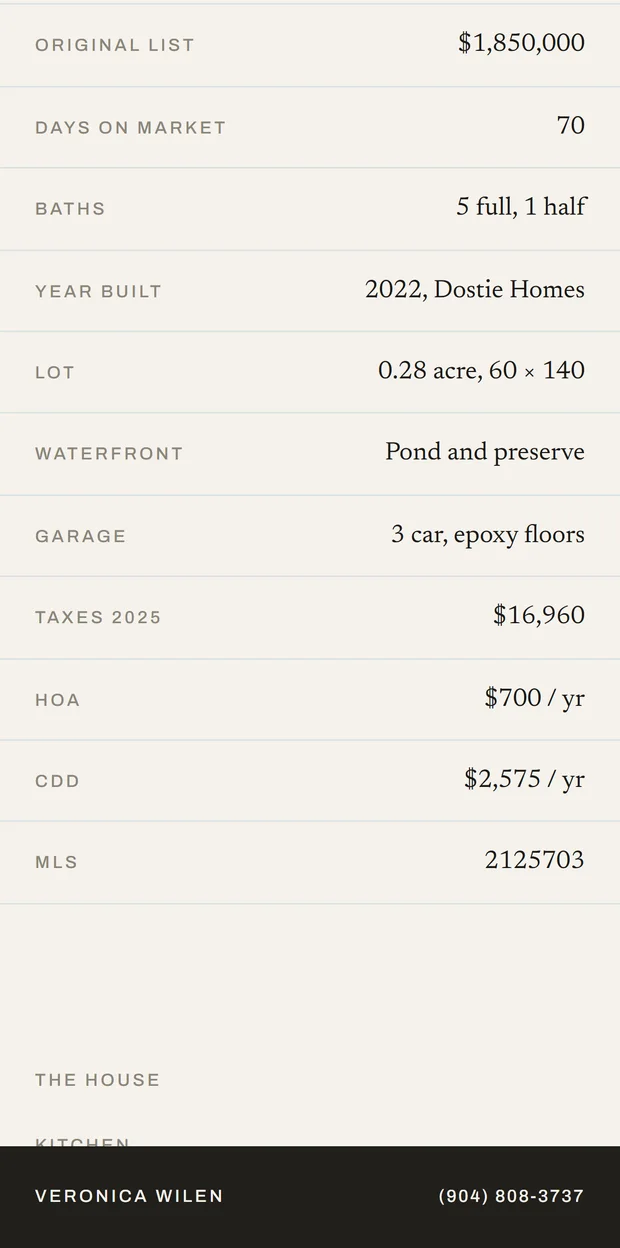
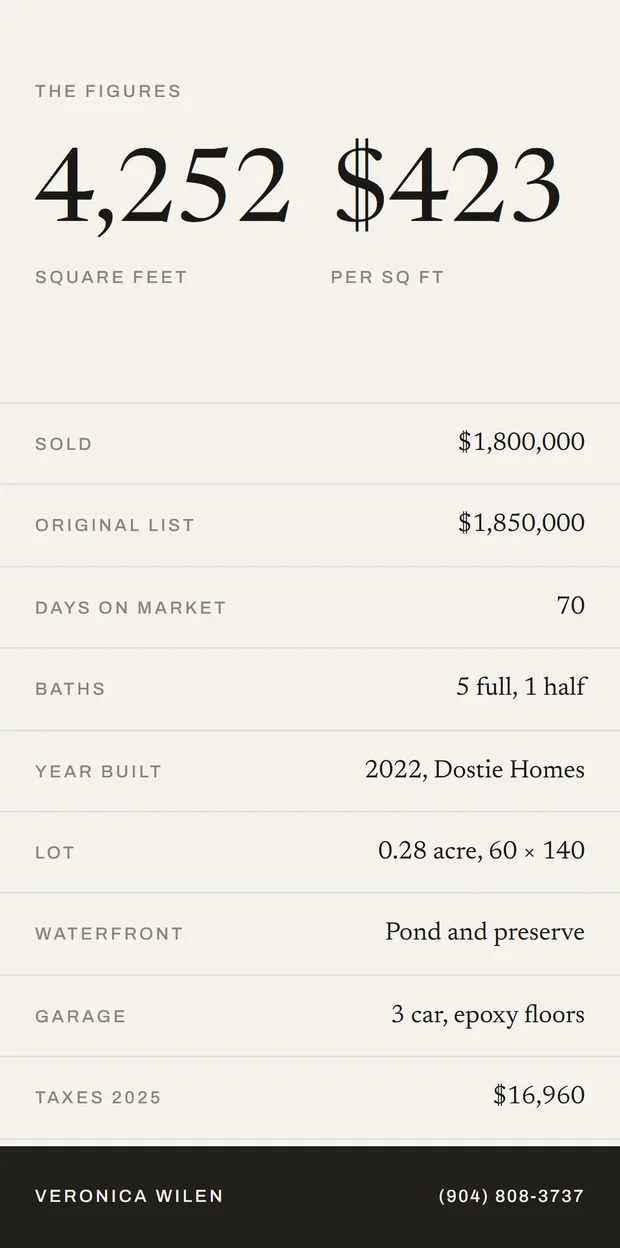
Speed the hero fade up, reframe the figures screen, tighten the hero top
Three adjustments.

The fade cycle drops from 24s to 16s, so each screen holds for 4s instead of 6.
The overlap proportions are unchanged, so combined opacity still measures a flat
1.00 across the cycle and the screen never dips toward the background.

The figures screen was mostly whitespace because its capture offset had drifted.
The live page settles to 10,036px once every lazy image has decoded, not the
10,428px it reports mid-load, so the old offsets landed low: that frame started
at ORIGINAL LIST, cut off the 4,252 and $423 headline figures above it, and ran
past the section into the top of THE HOUSE. All four offsets were re-measured
after a full scroll pass at the real capture viewport. The figures frame now
starts at 6000 rather than 6302, which skips 53px of section padding and leads
with the two big numbers, ending cleanly at Taxes.

The hero's top padding goes from 64px to 36px on desktop and 28px to 18px on
phones. The gap between the header and the headline closes from 87px to 59px,
which lifts the whole column and roughly doubles the CTA's clearance above the
fold on a 720px-tall window, from 36px to 64px.

diff --git a/styles.css b/styles.css
@@ -44,7 +44,7 @@ img{max-width:100%;display:block}
 .site-nav a.strong{color:var(--text-strong)}
 
 /* hero */
-.hero{padding:clamp(28px,6vw,64px) var(--pad-x) clamp(32px,3.4vw,46px)}
+.hero{padding:clamp(18px,2.6vw,36px) var(--pad-x) clamp(32px,3.4vw,46px)}
 .hero-grid{display:grid;grid-template-columns:minmax(0,1.15fr) minmax(0,.85fr);gap:clamp(28px,5vw,72px);align-items:center}
 .hero h1{font-size:clamp(38px,6vw,74px);line-height:1.06;margin-bottom:var(--sp-5)}
 .hero h1 .line{display:block;overflow:hidden;padding-bottom:.14em;margin-bottom:-.14em}
@@ -75,19 +75,19 @@ img{max-width:100%;display:block}
 @keyframes floatY{0%,100%{transform:translateY(0)}50%{transform:translateY(-8px)}}
 .phone-screen{position:relative;border-radius:24px;overflow:hidden;background:var(--paper-100);aspect-ratio:620/1248}
 /* Four real screenfuls of the guide, cross-faded. Each frame runs the same
-   24s keyframe offset by 6s, and its visible window (0 to 29%) is slightly
+   16s keyframe offset by 4s, and its visible window (0 to 29%) is slightly
    longer than its slot, so the outgoing and incoming frames overlap instead of
    dipping through the background. The first frame carries a static opacity:1 so
    that under prefers-reduced-motion, where animations are switched off further
    down this sheet, the screen still shows the guide rather than going blank.
    The phone's floatY is untouched: it sits on .phone, this sits on the frames. */
-.phone-screen .frame{position:absolute;inset:0;opacity:0;border-radius:24px;overflow:hidden;animation:frameFade 24s linear infinite}
+.phone-screen .frame{position:absolute;inset:0;opacity:0;border-radius:24px;overflow:hidden;animation:frameFade 16s linear infinite}
 .phone-screen .frame:first-child{opacity:1}
 .phone-screen .frame img{width:100%;height:100%;object-fit:cover;display:block}
 .phone-screen .frame:nth-child(1){animation-delay:0s}
-.phone-screen .frame:nth-child(2){animation-delay:6s}
-.phone-screen .frame:nth-child(3){animation-delay:12s}
-.phone-screen .frame:nth-child(4){animation-delay:18s}
+.phone-screen .frame:nth-child(2){animation-delay:4s}
+.phone-screen .frame:nth-child(3){animation-delay:8s}
+.phone-screen .frame:nth-child(4){animation-delay:12s}
 @keyframes frameFade{0%{opacity:0}4%{opacity:1}25%{opacity:1}29%{opacity:0}100%{opacity:0}}
 
 /* work */
